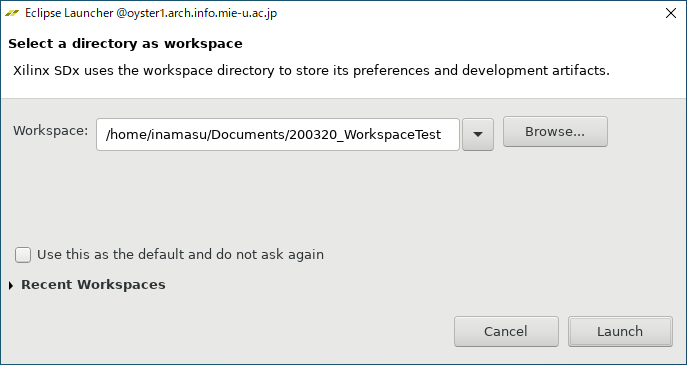
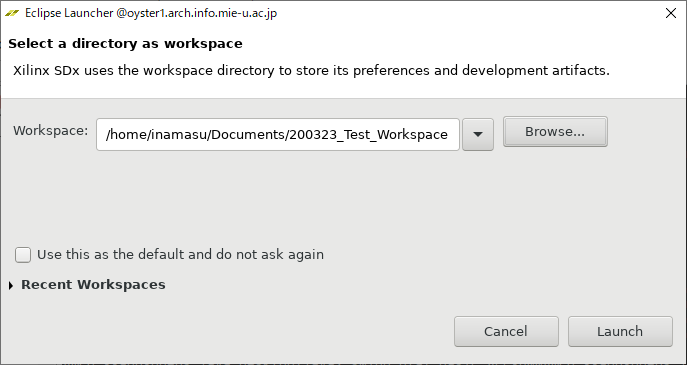
Change How to Build

diff --git a/README.md b/README.md
@@ -12,6 +12,8 @@ Xilinx UltraScale+ MPSoC ZCU104 評価キットで動作するプログラムで
 FPGA回路はxfOpenCVライブラリ、GPUプログラムはEGLライブラリおよびOpenGL ES 2.0 APIを用いて実装しました。
 開発環境はXilinx SDx v2019.1です。
 
+
+
 ## ビルド済みファイルの実行方法
 
 ### 1. ビルド済みファイルをコピー
@@ -25,7 +27,7 @@ microSDカードをFAT32にフォーマットする。
 
 `200129_SDCard_filterSize(5|15)_N0_300MHz`内のファイルをmicroSDカードにコピーする。
 
-### 3. ZCU104でのsdカードブート
+### 3. ZCU104に各種デバイスを接続
 
 1. ZCU104ボードのDIPスイッチ(SW6)を以下のように設定する。
 ```
@@ -80,6 +82,8 @@ root@xilinx-zcu104-2019_1:/mnt# export LD_LIBRARY_PATH=/mnt/lib/
 
 ### 5. プログラムの実行方法
 
+プログラムの実行方法は、`root@xilinx-zcu104-2019_1:/mnt# ./EGL_xfOpenCV.elf`となっている。
+
 ```
 Usage:	./EGL_xfOpenCV.elf [-f -n number] [-g] [-v] [-m number(1~4)] [-p png-file-name] [-i number(0~10)]
 
@@ -92,7 +96,6 @@ Options:
 	 -i : Set eglSwapInterval() 0:No Limit, 1:60fps 2:30fps 3:20fps ... 	(default : 0)
 ```
 
-となっている。
 
 (必ずカレントディレクトリを/mnt/に変更すること。もし./mnt/EGL_xfOpenCV.elfのように実行した場合、GPU用のシェーダーコードを読み込めずにエラーになる)
 
@@ -102,25 +105,24 @@ Options:
 ```
 # ./EGL_xfOpenCV.elf -f
 ```
-とコマンドを実行する。
+とコマンドを実行する。Bloomの各フェーズおよび全体の実行時間が測定される。
 
 もし途中でLinux カーネルがフリーズしたりするようなら、`-n 10`といったように`n`オプションで実行回数を変更するとよい。
 
-Bloomの各フェーズおよび全体の実行時間が測定される。
 
 #### GPUで実行する場合
 ```
 # ./EGL_xfOpenCV.elf -g
 ```
-とコマンドを実行する。
-
-OpenGL側のバージョンや、OpenGL実行中に発生したエラーを表示する際は`-v`オプションを指定する。
+とコマンドを実行する。FPGA実行とは異なり、全体の実行時間が測定される。
 
 Bloomの各フェーズごとの実行時間を測定する場合は、`-m`オプションを使用する。
 * `-m 1` : 画像の読み込み後、そのまま描画
 * `-m 12` : 画像読み込み、高輝度取り出し処理後描画
 * `-m 123` :  画像読み込み、高輝度取り出し、ぼかしフィルタ処理後描画
 * `-m 1234` : Bloom処理全体の実行 (デフォルト)
+
+OpenGL側のバージョンや、OpenGL実行中に発生したエラーを表示する際は`-v`オプションを指定する。
 
 フレームレートに制限を書ける場合は`-i`オプションを使用する。
 * `-i 0` : フレームレート制限無し(デフォルト)
@@ -183,57 +185,40 @@ Oyster1
 |xf_headers.h|openCVなどのインクルードがされるファイル(ほぼxfOpenCVのサンプルまま) |
 |xf_lut_*|xfOpenCVにおけるLUT関数を使うためのファイル (xfOpenCVのサンプルまま) |
 
-## sourcezipからのビルド方法
+## ビルド方法
 
-0. 作業ディレクトリを作成する。以下、workspaceと呼ぶ。
+### 0. Workspaceの作成
+自分のホームディレクトリ内などに適当な作業ディレクトリを作成する。以下、workspaceと呼ぶ。
 
-1. `share/inamasu/2020/EvaluationProgram/Source`のデータをworkspaceにコピーする。
+### 1. zcu104-rv-ss-2018-3.zipの展開
+`share/inamasu/2020/EvaluationProgram/Source/zcu104-rv-ss-2018-3.zip`を自分のホームディレクトリ内などの適当な場所にコピーし、展開する。
 
-2. `zcu104-rv-ss-2018-3.zip`をworkspaceに展開する。
+このzipファイルは、[reVISION 入門ガイド 3. ソフトウェア ツールおよびシステム要件](https://github.com/Xilinx/reVISION-Getting-Started-Guide/blob/master/docs-jp/Docs/software-tools-system-requirements.md) 内の[zcu104-rv-ss-2018-3.zip](https://japan.xilinx.com/member/forms/download/design-license-xef.html?filename=zcu104-rv-ss-2018-3.zip)
+からもダウンロードできる。
 
-3. ライセンスが登録されたPCで、Vivado SDxを起動する。Workspaceに、0.で作成した作業ディレクトリを指定する。「Launch」をクリックして起動する。
+### 2. Vivado SDxの起動
+SDxライセンスが通っているPCで`$ sdx`コマンドを実行し、Vivado SDxを起動する。
+(ライセンスの有無については先生に相談するとよい)
+
+0.で作成したWorkspaceを指定し、Launchをクリックする。
 <img src="README_Pic/1_SelectWorkspace.png" width="600">
 
-4. Import Project を選択する。
+### 3. xfOpenCVライブラリのインストール
+Welcomeスクリーンが表示されたら、メニューバーから Xilinx -> SDx Libraries... を選択する。
 <img src="README_Pic/2_launchVivadoSDx.png" width="600">
 
-5. Import SDx Projectsを選択し、Archive Fileに`Source/EGL_xfOpenCV.sdx.zip`を指定する。Finishをクリックする。
-<img src="README_Pic/3_ImportProjects.png" width="500">
-<img src="README_Pic/4_ImportSDxProject.png" width="600">
+xfOpenCVライブラリをインストールする。
+<img src="README_Pic/3_InstallxfOpenCV.png" width="600">
 
-6. 一度SDxを終了し、エディタで`EGL_xfOpenCV/project.sdx`を編集する。
-    * `location="/eda1/home/inamasu/200116_xfOpenCV-PostProcess/workspace/EGL_xfOpenCV`となっている部分を自分のプロジェクトのディレクトリに変更する。
-    * `sysrootLocation="/eda1/home/inamasu/191219_xfOpenCV/zcu104-rv-ss-2018-3/zcu104_rv_ss/sw/a53_linux/a53_linux/sysroot/aarch64-xilinx-linux"`を自分のディレクトリに変更する。
-
-6. Active build configurationをReleaseに変更し、ビルドする。(初回ビルドにはIntel Xeon E5-2620 v4にて1時間程度かかった。)
-<img src="README_Pic/5_SelectReleaseBuild.png" width="600">
-
-
-
-
-
-## (参考) gitリポジトリからのビルド方法 【利用不可】
-(2020/03/20)
-卒業までに研究室内のGitにプッシュできなかったので、このビルド方法は利用できません。
-
-### 0. 準備
-
-[reVISION 入門ガイド 3. ソフトウェア ツールおよびシステム要件](https://github.com/Xilinx/reVISION-Getting-Started-Guide/blob/master/docs-jp/Docs/software-tools-system-requirements.md) 内の[zcu104-rv-ss-2018-3.zip](https://japan.xilinx.com/member/forms/download/design-license-xef.html?filename=zcu104-rv-ss-2018-3.zip)
-をダウンロードし、展開する。
-
-### 1. xfOpenCVのインストール
-
-Xilinx SDx v2019.1 (64-bit)を起動する。
-
-適当なworkspaceを指定し、ウインドウが表示されたら、メニューのXilinx -> SDx Libraries... を選択
-
-ここで、xfOpenCVのインストールを行う。
-
-### 2. 新しいプロジェクトの作成
+### 4. 新しいプロジェクトの作成
 
 メニューから File -> New -> SDx Application Project を選択し、適当なプロジェクト名をつける。
+<img src="README_Pic/4-1_SetProjectName.png" width="600">
+
 
 Platformは**ZCU104**を指定する。
+<img src="README_Pic/4-2_SelectZCU104.png" width="600">
+
 
 System Configurationでは、
  * System configuration : **A53 Linux**
@@ -242,32 +227,72 @@ System Configurationでは、
  * Sysroot path : `/<ダウンロードしたzcu104-rv-ss-2018-3を展開したディレクトリ>/zcu104_rv_ss/sw/a53_linux/a53_linux/sysroot/aarch64-xilinx-linux`
 
 と設定する。
+<img src="README_Pic/4-3_SetSystemConfiguration.png" width="600">
+
 
 Templatesでは、**customconv - File I/O**を選択し、Finishをクリック
+<img src="README_Pic/4-4_SelectTemplate.png" width="600">
 
 以上の手順でサンプルプロジェクトを作成できる。
 
-### 3. 本リポジトリからソースファイルをコピー
+### 5. ソースのコピー
 
 一度Xilinx SDxを終了する。
 
-作成したプロジェクトの`src`ディレクトリ内のファイルを削除し、
+Gitリポジトリをクローンするか、`share/inamasu/2020/EvaluationProgram/Source/200322_source.zip`をコピーし、展開する。
 
-本リポジトリを`git clone`し、`workspace/EGL_xfOpenCV/src`内のファイルを、作成したプロジェクトの`src`にインポートする。
+作成したプロジェクトの`<Workspace>/<ProjectName>/src`ディレクトリ内のファイルを削除し、`<200322_source.zipを展開したもの>/src`内のファイルをコピーする。
 
-本リポジトリの`workspace/EGL_xfOpenCV/project.sdx`を参考に、作成したプロジェクトの`project.sdx`を編集する。
+`<Workspace>/<ProjectName>/project.sdx`をエディタで編集する。
 
-* `location="/eda1/home/inamasu/200116_xfOpenCV-PostProcess/workspace/EGL_xfOpenCV`となっている部分を自分のプロジェクトのディレクトリに変更する。
+1,2行目を残して、3行目以降を以下のように変更する。
+```xml
+  <configuration name="Debug" id="com.xilinx.sdsoc.managedbuild.project.debug.1480543953" dirty="true">
+    <configBuildOptions xsi:type="sdsproject:Option" insertapm="false" gensdcard="true" dmclkid="2" enableHwSwTrace="false" traceApplication="false">
+      <accelerator name="filter2D" filepath="libs/xfopencv/include/imgproc/xf_custom_convolution.hpp" clkid="4" location="libs/xfopencv/include/imgproc/xf_custom_convolution.hpp"/>
+      <accelerator name="LUT" filepath="libs/xfopencv/include/imgproc/xf_lut.hpp" clkid="4" location="libs/xfopencv/include/imgproc/xf_lut.hpp"/>
+      <accelerator name="add" filepath="libs/xfopencv/include/core/xf_arithm.hpp" clkid="4" location="libs/xfopencv/include/core/xf_arithm.hpp"/>
+    </configBuildOptions>
+  </configuration>
+  <configuration name="Release" id="com.xilinx.sdsoc.managedbuild.project.release.49940111">
+    <configBuildOptions xsi:type="sdsproject:Option" insertapm="false" gensdcard="true" dmclkid="2" enableHwSwTrace="false" traceApplication="false">
+      <accelerator name="filter2D" filepath="libs/xfopencv/include/imgproc/xf_custom_convolution.hpp" clkid="4" location="libs/xfopencv/include/imgproc/xf_custom_convolution.hpp"/>
+      <accelerator name="LUT" filepath="libs/xfopencv/include/imgproc/xf_lut.hpp" clkid="4" location="libs/xfopencv/include/imgproc/xf_lut.hpp"/>
+      <accelerator name="add" filepath="libs/xfopencv/include/core/xf_arithm.hpp" clkid="4" location="libs/xfopencv/include/core/xf_arithm.hpp"/>
+    </configBuildOptions>
+    <lastBuildOptions xsi:type="sdsproject:Option" insertapm="false" gensdcard="true" dmclkid="2" enableHwSwTrace="false" traceApplication="false">
+      <accelerator name="filter2D" filepath="libs/xfopencv/include/imgproc/xf_custom_convolution.hpp" clkid="4" location="libs/xfopencv/include/imgproc/xf_custom_convolution.hpp"/>
+      <accelerator name="LUT" filepath="libs/xfopencv/include/imgproc/xf_lut.hpp" clkid="4" location="libs/xfopencv/include/imgproc/xf_lut.hpp"/>
+      <accelerator name="add" filepath="libs/xfopencv/include/core/xf_arithm.hpp" clkid="4" location="libs/xfopencv/include/core/xf_arithm.hpp"/>
+    </lastBuildOptions>
+  </configuration>
+</sdsproject:SDSProject>
+```
 
-### 4. ビルド
+### 6. ビルド
 
-再度 Xilinx SDxを起動し、ビルド設定をReleaseに変更し、ビルドを実行する。
+再度Vivado SDxを起動する。
 
-ビルドに成功すれば完了。(初回ビルドにはIntel Xeon E5-2620 v4にて1時間程度かかった。)
+Active build configuration: Releaseに変更する。
+
+Hardware Functions に 「filter2D」「LUT」「add」が追加されているのを確認できたら、メニュー内のBuildボタン(トンカチのアイコン)をクリックする。
+これでビルドが開始される。
+
+<img src="README_Pic/6_SetRelease.png" width="600">
+
+(初回ビルドにはIntel Xeon E5-2620 v4にて1時間程度かかった。)
+
+### 7. ZCU104での実行
+
+`<workspace>/<Prokect Name>/Release/sd_card/`内のファイルをmicroSDカードにコピーする。
+
+本README内の「ビルド済みファイルの実行方法」と同様に作業すれば実行できる。
+
+## その他
 
 
 
-## (参考) xf_config_params.hのパラメータについて
+### (参考) xf_config_params.hのパラメータについて
 
 ```
 /*  set the optimization type  */
